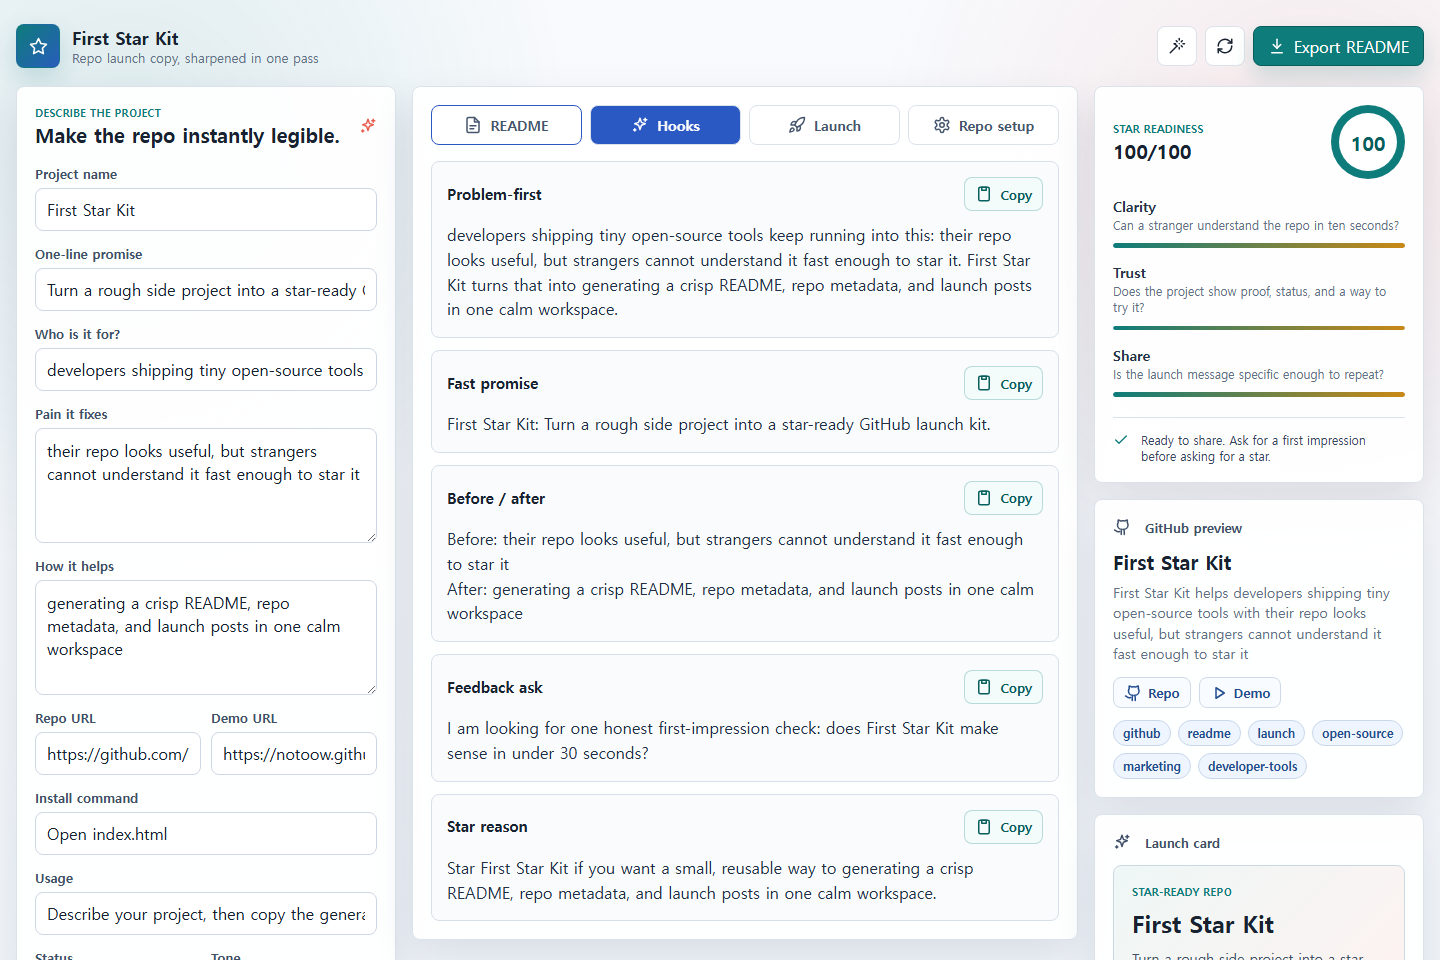
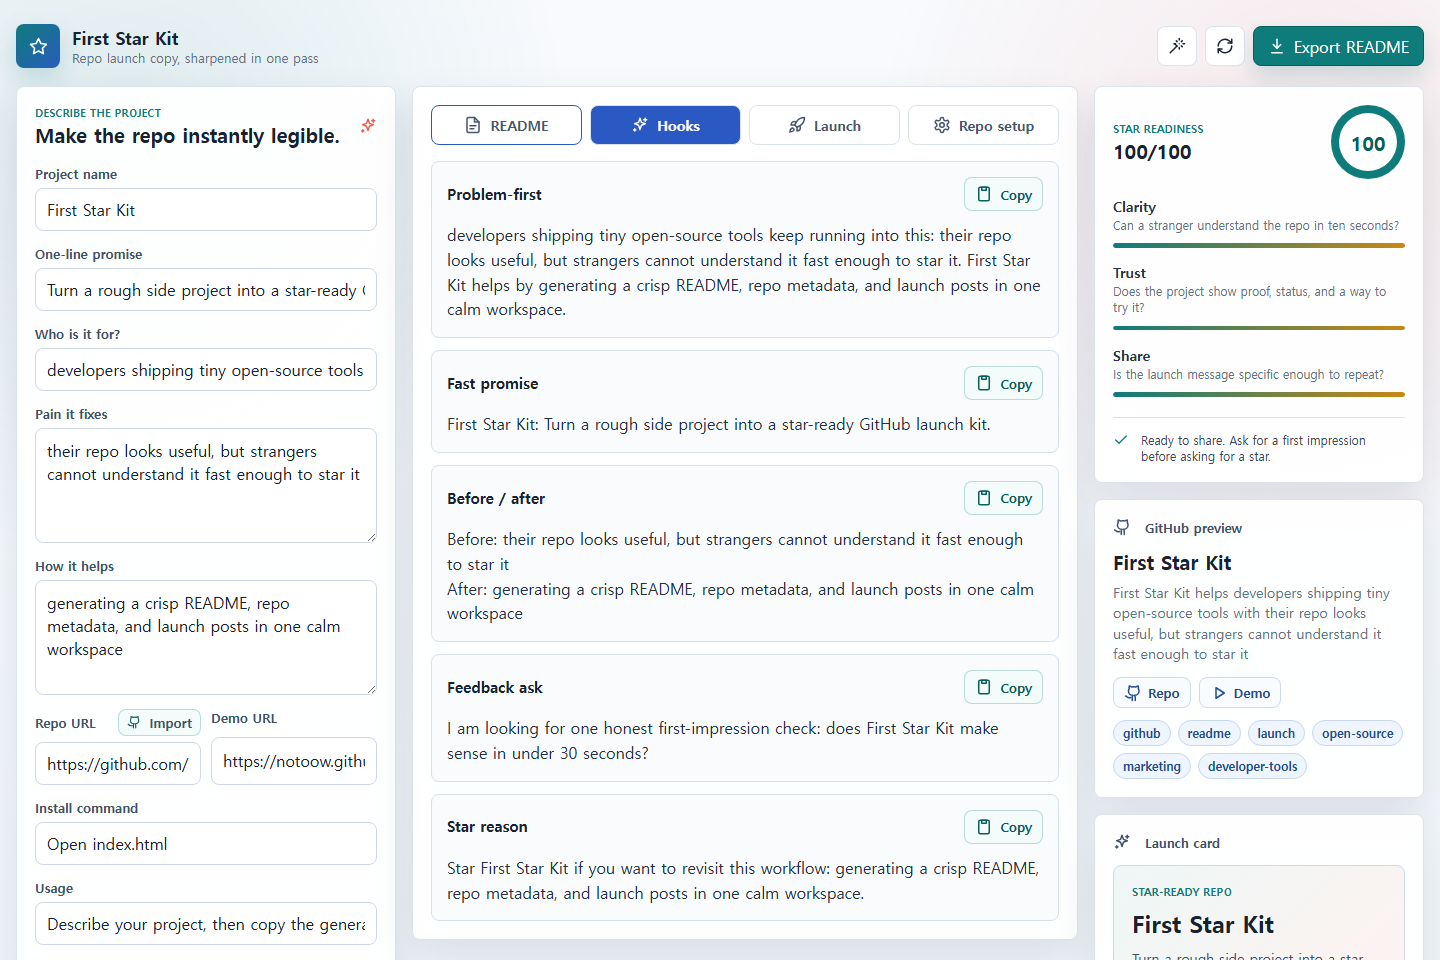
add github repo import

Changed region(s): [[0.0312, 0.7188, 0.25, 1.0], [0.3125, 0.875, 0.7188, 0.9375], [0.3125, 0.2812, 0.7188, 0.3438]]

diff --git a/src/app.js b/src/app.js
@@ -95,6 +95,49 @@ function splitKeywords(value) {
     .slice(0, 10);
 }
 
+function titleizeRepoName(value) {
+  return String(value || "")
+    .replace(/[-_]+/g, " ")
+    .replace(/\b\w/g, (letter) => letter.toUpperCase())
+    .trim();
+}
+
+function uniqueList(values) {
+  return [...new Set(values.map((value) => slugify(value)).filter(Boolean))];
+}
+
+function parseGitHubRepoUrl(value) {
+  const text = String(value || "").trim();
+  const match = text.match(/^https?:\/\/github\.com\/([^/\s]+)\/([^/\s#?]+?)(?:\.git)?(?:[/?#].*)?$/i);
+  if (!match) return null;
+  return {
+    owner: match[1],
+    repo: match[2].replace(/\.git$/i, ""),
+  };
+}
+
+function extractInstallCommand(readme) {
+  const text = String(readme || "");
+  const fences = [...text.matchAll(/```(?:bash|sh|shell|zsh|powershell|ps1|console)?\s*([\s\S]*?)```/gi)];
+  const installish = /(npm|pnpm|yarn|bun|pip|uv|cargo|go run|go install|deno|python|ruby|gem|composer|docker)/i;
+
+  for (const fence of fences) {
+    const lines = fence[1]
+      .split("\n")
+      .map((line) => line.replace(/^\s*[$>]\s?/, "").trim())
+      .filter((line) => line && !line.startsWith("#"));
+    if (lines.some((line) => installish.test(line))) {
+      return lines.slice(0, 3).join("\n");
+    }
+  }
+
+  const line = text
+    .split("\n")
+    .map((item) => item.trim())
+    .find((item) => /^(npm|pnpm|yarn|bun|pip|uv|cargo|go|deno|python|docker)\b/i.test(item));
+  return line || "";
+}
+
 function buildRepoDescription(data) {
   const name = data.projectName.trim() || "This project";
   const audience = data.audience.trim() || "developers";
@@ -208,7 +251,7 @@ function buildHooks(data) {
   return [
     {
       title: "Problem-first",
-      text: `${audience} keep running into this: ${problem}. ${name} turns that into ${promise}.`,
+      text: `${audience} keep running into this: ${problem}. ${name} helps by ${promise}.`,
     },
     {
       title: "Fast promise",
@@ -224,7 +267,7 @@ function buildHooks(data) {
     },
     {
       title: "Star reason",
-      text: `Star ${name} if you want a small, reusable way to ${compact(promise, 100)}.`,
+      text: `Star ${name} if you want to revisit this workflow: ${compact(promise, 100)}.`,
     },
   ];
 }
@@ -543,6 +586,93 @@ function exportMarkdown() {
   URL.revokeObjectURL(url);
 }
 
+function setImportStatus(message, type = "info") {
+  const status = document.getElementById("importStatus");
+  status.textContent = message || "";
+  status.className = message ? `import-status show ${type}` : "import-status";
+}
+
+async function fetchReadmeText(owner, repo, branch) {
+  const rawUrl = `https://raw.githubusercontent.com/${encodeURIComponent(owner)}/${encodeURIComponent(repo)}/${encodeURIComponent(branch)}/README.md`;
+  const response = await fetch(rawUrl);
+  if (!response.ok) return "";
+  return response.text();
+}
+
+async function importRepoFromGitHub(button) {
+  const parsed = parseGitHubRepoUrl(state.repoUrl);
+  if (!parsed) {
+    setImportStatus("Paste a public GitHub repo URL first.", "error");
+    return;
+  }
+
+  button.disabled = true;
+  const label = button.querySelector("span");
+  const originalLabel = label.textContent;
+  label.textContent = "Importing";
+  setImportStatus(`Reading ${parsed.owner}/${parsed.repo} from GitHub...`);
+
+  try {
+    const response = await fetch(
+      `https://api.github.com/repos/${encodeURIComponent(parsed.owner)}/${encodeURIComponent(parsed.repo)}`,
+      { headers: { Accept: "application/vnd.github+json" } },
+    );
+    if (!response.ok) {
+      throw new Error(response.status === 404 ? "Repo not found or private." : `GitHub returned ${response.status}.`);
+    }
+
+    const repo = await response.json();
+    const readme = await fetchReadmeText(parsed.owner, parsed.repo, repo.default_branch || "main");
+    const installCommand = extractInstallCommand(readme);
+    const topics = uniqueList([
+      ...(repo.topics || []),
+      repo.language || "",
+      "github",
+      "open-source",
+    ]).slice(0, 10);
+    const repoDescription = repo.description || "";
+    const audienceSeed = repo.language || topics[0] || "open-source";
+    const shouldReplace = (key) => !state[key] || state[key] === sampleState[key];
+
+    state = {
+      ...state,
+      projectName: titleizeRepoName(repo.name) || state.projectName,
+      tagline: repoDescription || state.tagline,
+      audience: shouldReplace("audience") ? `developers interested in ${audienceSeed}` : state.audience,
+      problem: shouldReplace("problem")
+        ? "strangers need to understand why this repo matters before they try it"
+        : state.problem,
+      promise: shouldReplace("promise")
+        ? "turning the repo's first impression into a clearer README, launch hook, and share card"
+        : state.promise,
+      demoUrl: hasUrl(repo.homepage) ? repo.homepage : state.demoUrl,
+      repoUrl: repo.html_url || state.repoUrl,
+      installCommand: installCommand || (shouldReplace("installCommand") ? "Follow the README quick start." : state.installCommand),
+      usageCommand: shouldReplace("usageCommand")
+        ? "Open the demo, scan the README, then try the smallest useful workflow."
+        : state.usageCommand,
+      license:
+        repo.license && repo.license.spdx_id && repo.license.spdx_id !== "NOASSERTION"
+          ? repo.license.spdx_id
+          : state.license,
+      keywords: topics.length ? topics.join(", ") : state.keywords,
+    };
+
+    saveState();
+    setInputs();
+    render();
+    setImportStatus(
+      `Imported ${repo.full_name}${installCommand ? " and found a quick-start command." : "."}`,
+      "success",
+    );
+  } catch (error) {
+    setImportStatus(error.message || "Could not import this repo.", "error");
+  } finally {
+    button.disabled = false;
+    label.textContent = originalLabel;
+  }
+}
+
 function wrapCanvasText(context, text, x, y, maxWidth, lineHeight, maxLines) {
   const words = String(text).split(/\s+/).filter(Boolean);
   const lines = [];
@@ -690,6 +820,10 @@ document.addEventListener("click", (event) => {
 
   if (action.dataset.action === "download-card") {
     downloadLaunchCard();
+  }
+
+  if (action.dataset.action === "import-repo") {
+    importRepoFromGitHub(action);
   }
 });
 

diff --git a/src/styles.css b/src/styles.css
@@ -142,6 +142,7 @@ a {
 .primary-action,
 .copy-button,
 .wide-action,
+.mini-action,
 .tabs button {
   display: inline-flex;
   align-items: center;
@@ -162,6 +163,7 @@ a {
 .primary-action:hover,
 .copy-button:hover,
 .wide-action:hover,
+.mini-action:hover,
 .tabs button:hover {
   border-color: #a8b7c9;
   background: #f9fbff;
@@ -284,6 +286,39 @@ p {
   font-weight: 700;
 }
 
+.field-label-row {
+  display: flex;
+  align-items: center;
+  justify-content: space-between;
+  gap: 8px;
+}
+
+.field-label-row > span {
+  min-width: 0;
+}
+
+.mini-action {
+  min-height: 27px;
+  border-color: rgba(14, 124, 123, 0.26);
+  color: var(--teal-dark);
+  background: #f4fbfb;
+  padding: 0 8px;
+  font-size: 12px;
+  font-weight: 800;
+  white-space: nowrap;
+}
+
+.mini-action .icon {
+  width: 14px;
+  height: 14px;
+}
+
+.mini-action[disabled] {
+  cursor: wait;
+  opacity: 0.72;
+  transform: none;
+}
+
 .field input,
 .field textarea,
 .field select {
@@ -308,6 +343,33 @@ p {
 .field select:focus {
   border-color: var(--teal);
   box-shadow: 0 0 0 3px rgba(14, 124, 123, 0.14);
+}
+
+.import-status {
+  display: none;
+  border: 1px solid #d7e0ea;
+  border-radius: 8px;
+  color: #405069;
+  background: #f8fbff;
+  padding: 9px 11px;
+  font-size: 12px;
+  line-height: 1.35;
+}
+
+.import-status.show {
+  display: block;
+}
+
+.import-status.success {
+  border-color: rgba(14, 124, 123, 0.22);
+  color: var(--teal-dark);
+  background: #effaf8;
+}
+
+.import-status.error {
+  border-color: rgba(232, 93, 79, 0.32);
+  color: #9c352c;
+  background: #fff5f3;
 }
 
 .two-col {

diff --git a/index.html b/index.html
@@ -16,7 +16,7 @@
     <meta property="og:url" content="https://notoow.github.io/first-star-kit/" />
     <meta name="twitter:card" content="summary_large_image" />
     <title>First Star Kit</title>
-    <link rel="stylesheet" href="./src/styles.css?v=20260511b" />
+    <link rel="stylesheet" href="./src/styles.css?v=20260511c" />
   </head>
   <body>
     <svg aria-hidden="true" class="svg-sprite">
@@ -158,7 +158,13 @@
 
           <div class="two-col">
             <label class="field">
-              <span>Repo URL</span>
+              <span class="field-label-row">
+                <span>Repo URL</span>
+                <button class="mini-action" type="button" data-action="import-repo">
+                  <svg class="icon"><use href="#i-github"></use></svg>
+                  <span>Import</span>
+                </button>
+              </span>
               <input data-field="repoUrl" placeholder="https://github.com/you/project" />
             </label>
             <label class="field">
@@ -166,6 +172,7 @@
               <input data-field="demoUrl" placeholder="https://project.dev" />
             </label>
           </div>
+          <div class="import-status" id="importStatus" aria-live="polite"></div>
 
           <label class="field">
             <span>Install command</span>
@@ -313,6 +320,6 @@
       </section>
     </main>
 
-    <script src="./src/app.js?v=20260511b"></script>
+    <script src="./src/app.js?v=20260511c"></script>
   </body>
 </html>

diff --git a/README.md b/README.md
@@ -15,6 +15,7 @@ Getting a first GitHub star is often less about the code and more about whether 
 ## Features
 
 - Live README generator
+- Public GitHub repo import for name, description, topics, homepage, license, and quick-start hints
 - Copy-ready hooks for posts, DMs, and first-impression asks
 - GitHub repo name, description, topics, and starter issues
 - Launch copy for X, Reddit, Hacker News, Discord, and friendly DMs
